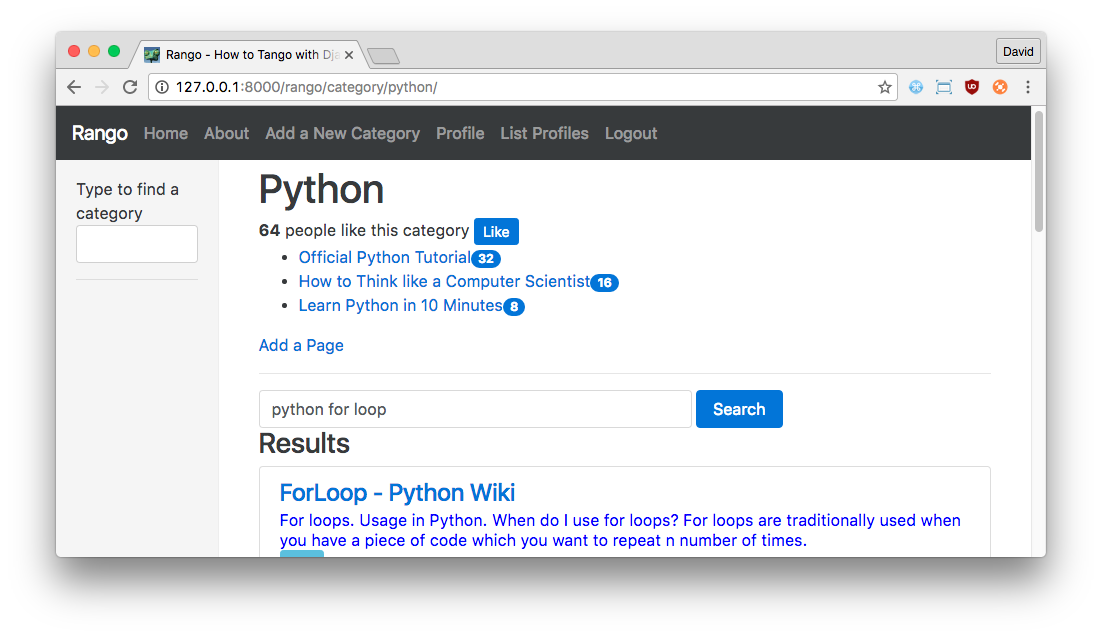
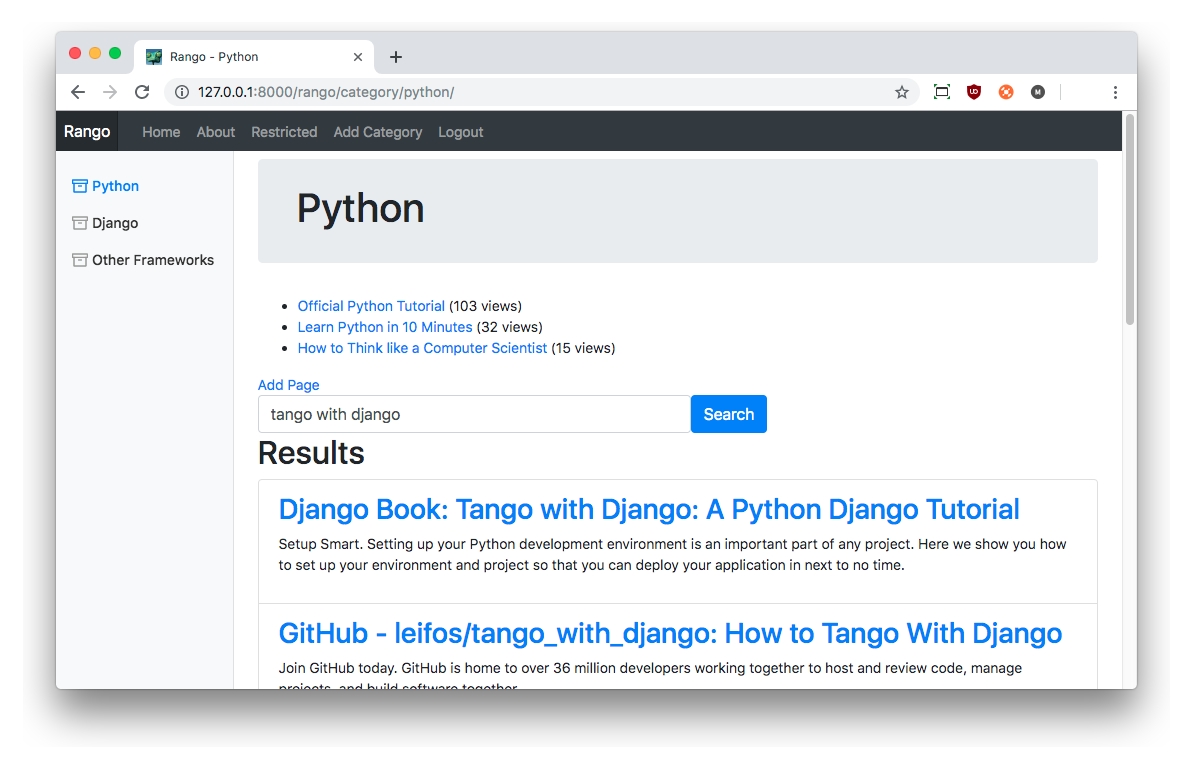
Updating Chapter 16, completed the updating of the search migration guide

Changed region(s): [[0.0309, 0.0298, 0.9564, 0.9246], [0.5554, 0.5071, 0.6479, 0.5667]]

diff --git a/manuscript/chapter16-rango-hints.md b/manuscript/chapter16-rango-hints.md
@@ -72,103 +72,124 @@ This involves the simple addition of chaining on an `order_by()` call to our ORM
 Now that this is all done, confirm it all works by clicking on categories and then pages. Go back to the category and refresh the page to see if the number of clicks has increased. Remember to refresh; the updated count may not show up straight away!
 
 ## Searching Within a Category Page
-Rango aims to provide users with a helpful directory of page links. At the moment, the search functionality is essentially independent of the categories. It would be nicer however to have search integrated into category browsing. Let's assume that a user will first browse their category of interest first. If they can't find the page that they want, they can then search for it. If they find a page that is suitable, then they can add it to the category that they are in. Let's tackle the first part of this description here.
+The main aim of Rango is to provide users of the app with a helpful directory of page links. At the moment, the search functionality is essentially independent of the categories. It would be better to integrate the search functionality within a category page.
 
-We first need to remove the global search functionality and only let users search within a category. This will mean that we essentially decommission the current search page and search view. After this, we'll need to perform the following.
+Let us assume that a user will first navigate to and browse their category of interest first. If they cannot find the page that they want, they will then be able to search for it. Once they examine their search results and find the page they are looking for, they will be able to add the page to the category they are browsing.
+
+We'll tackle the first part of the description here -- adding search functionality to the category page. In order to accomplish this, we first need to remove the [search functionality that we added in a previous chapter](#chapter-bing). This will essentially mean decommissioning the current search page and associated infrastructure (including the view and URL mapping). After this, there are several tasks we will need to undertake. The subsections listed here again correspond to the five main steps we outlined in the [previous chapter](#chapter-ex-searching).
+
+W> ### Don't Delete your Code!
+W> When decommissioning your existing search functionality, don't delete it. Simply comment things out where appropriate (such as in the `urls.py` module). You'll copying some of the code across to a new home later on, anyway.
 
 ### Decommissioning Generic Search
-Remove the generic *Search* link from the menu bar by editing the `base.html` template. You can also remove or comment out the URL mapping in `rango/urls.py`.
+The first step for this exercise is to decommission the existing search functionality that you implemented in a [previous chapter](#chapter-bing).
 
-### Creating a Search Form Template
-Now in `category.html`, after the categories, add in a new `div` at the bottom of the template, and copy in the search form. This is very similar to the template code in the `search.html`, but we have updated the action to point to the `show_category` page. We also pass through a variable called `query`, so that the user can see what query has been issued.
+1. First, open Rango's `base.html` template and find the navigation bar markup (found at the top of the page). Locate the `<li>` element for the `Search` link that you added earlier on and delete it. This needs to be deleted as you'll be commenting out the URL mapping shortly, meaning that a reverse URL lookup for `rango:search` will no longer work. Wrapping this with an HTML comment tag (`<!-- ... -->`) won't work either, as the Django template engine will still process what's inside of it!
+2. Second, open Rango's `urls.py` module and locate the URL mapping for the `/rango/search/` URL. Comment this line out by adding a `#` to the start of the line. This will prevent users from reaching the `search` URL.
+3. Finally, open Rango's `views.py` module and locate the `search()` view you implemented previously. Again, comment out this function by prepending a `#` to the start of each line.
+
+You'll still have the `search.html` template in Rango's templates directory; don't remove this as we will be using the contents of this template as the basis for integrating search functionality within the category template.
+
+### Migrating `search.html` to `category.html`
+As we will be wanting provide search functionality to users who are browsing a category, we need to add in the search presentation functionality (e.g. displaying the search form and results area) to the `category.html` template. This is essentially a simple copy and paste job!
+
+Let's split this into two main steps. First, open your decommissioned `search.html` template and locate the `<div>` element containing the entire search form. This will be the `<div>` whose child is a `<form>` element. Select and copy the `<div>` and its contents, then open Rango's `category.html` file.
+
+We now need to paste the code from `search.html` into `category.html`. As the brief for this problem was to add the search functionality *underneath* the list of pages in the category, find and locate the link inside the `{% block body_block %}` to add a page. Paste the contents from `search.html` underneath that link.
+
+You can then go back to `search.html` and repeat the process, this time selecting the `<div>` for displaying the results list. You can identify this by looking for the `<div>` with Django template code that iterates through the `result_list` list. Copy that and then move back over to `category.html`. Now paste that in underneath the `<div>` containing the form that you previously pasted in.
+
+### Updating the `category.html` Search Form
+Now that the markup required has been added to `category.html`, we need to make one simple change. Instead of submitting the contents of the search form to the `/rango/search/` URL which we decommissioned earlier, we instead will simply direct submitted responses to the Rango `/rango/category/<slug:category_name_slug>` URL instead. This is as simple as finding the `<form>` definition in `category.html` and changing the `action` attribute to Rango's `show_category()` URL mapping.
 
 {lang="html",linenos=off}
-    <form class="form-inline" id="user_form" 
-          method="post" action="{% url 'rango:show_category'  category.slug %}">
-        {% csrf_token %}
-        <div class="form-group">
-            <input class="form-control" type="text" size="40" 
-                   name="query" value="{{ query }}" id="query" />
-        </div>
-        <button class="btn btn-primary" type="submit" name="submit"
-                value="Search">Search</button>
-    </form>
+	<form class="form-inline"
+	      id="user-form"
+	      method="post"
+	      action="{% url 'rango:show_category' category.slug %}">
 
-After the search form, we need to provide a space where the results are rendered. Again, this code is similar to the template code in `search.html`.
+### Updating the `show_category()` View
+You should have identified that since we are now redirecting search requests to the `show_category()` view, we'll need to make some changes within that view so that it can handle the processing of the search request, as well as being able to handle the generation of a list of pages for a given category.
 
-{lang="html",linenos=off}
-    {% if result_list %}
-    <h3>Results</h3>
-    <!-- Display search results in an ordered list -->
-    <div class="list-group">
-    {% for result in result_list %}
-        <div class="list-group-item">
-            <h4 class="list-group-item-heading">
-                <a href="{{ result.link }}">{{ result.title }}</a>
-                </h4>
-                <p class="list-group-item-text">{{ result.summary }}</p>
-        </div>
-    {% endfor %}
-    </div>
-    {% endif %}
-	
+This is again a relatively straightforward process in which we update the view based upon code from our decommissioned `search()` view. We provide the complete listing of our model `show_category()` view below. Notice the comments denoting the start of the code we have taken from our existing `search()` view.
 
-Remember to wrap the search form and search results with `{% if user.is_authenticated %}` and `{% endif %}`, so that only authenticated users can search. You don't want random users to be wasting your monthly search API's quota! And remember to encase the search box and results in a div containter and div row 	`<div class="container p-4"><div class="row">` ... `</div></div>`.
-
-### Updating the Category View
-Update the category view to handle a HTTP `POST` request (i.e. when the user submits a search) and inject the results list into the context. The following code demonstrates this new functionality.
-
-{lang="python",linenos=off}
+{lang="python",linenos=on}
 	def show_category(request, category_name_slug):
-	    # Create a context dictionary that we can pass
-	    # to the template rendering engine.
 	    context_dict = {}
 	    
 	    try:
-	        # Can we find a category name slug with the given name?
-	        # If we can't, the .get() method raises a DoesNotExist exception.
-	        # So the .get() method returns one model instance or raises an exception.
 	        category = Category.objects.get(slug=category_name_slug)
-	        # Retrieve all of the associated pages.
-	        # Note that filter() returns a list of page objects or an empty list
-	        pages = Page.objects.filter(category=category)
-	        # Adds our results list to the template context under name pages.
+	        pages = Page.objects.filter(category=category).order_by('-views')
+	        
 	        context_dict['pages'] = pages
-	        # We also add the category object from
-	        # the database to the context dictionary.
-	        # We'll use this in the template to verify that the category exists.
 	        context_dict['category'] = category
-	        # We get here if we didn't find the specified category.
-	        # Don't do anything -
-	        # the template will display the "no category" message for us.
 	    except Category.DoesNotExist:
 	        context_dict['category'] = None
 	        context_dict['pages'] = None
 	    
-	    # New code added here to handle a POST request
+	    # Start new search functionality code.
+	    if request.method == 'POST':
+	        if request.method == 'POST':
+	            query = request.POST['query'].strip()
+	            
+	            if query:
+	                context_dict['result_list'] = run_query(query)
+	    # End new search functionality code.
 	    
-	    # create a default query based on the category name
-	    # to be shown in the search box
-	    context_dict['query'] = category.name
-	    
-	    result_list = []
+	    return render(request, 'rango/category.html', context_dict)
+
+We keep the `show_category()` view the same at the top, and add in an additional block of code towards the end to handle the processing of a search request. If a `POST` request is made, we then attempt to take the `query` from the request and issue the query to the `run_query()` function we defined in the [Bing Search chapter](#sec-bing-pyfunc). This then returns a list of results which we put into the `context_dict` with a key of `result_list` -- exactly the variable name that is expected in the updated `category.html` template.
+
+Search functionality should then all work as expected. Try it out! Navigate to a category page, and you should see a search box. Enter a search query, submit it, and see what happens.
+
+### Restricting Access to Search Functionality
+Our final requirement was to restrict the migrated search functionality only to those who are logged into Rango. This step is straightforward -- one can simply wrap the search-handling template code added to `category.html` with a conditional template check to determine if the user is authenticated.
+
+{lang="python",linenos=off}
+	{% if user.is_authenticated %}
+	<div>
+	    ....
+	</div>
+	{% endif %}
+
+Too easy! You could also go further and add conditional checks within the `show_category()` view to ensure the search functionality part is not executed when the current use is not logged in. Be wary, though -- don't be inclined to add the `login_required()` decorator to the view. Doing so will restrict all category-viewing functionality to logged in users only -- you only want to restrict the *search* functionality!
+
+### Query Box Exercise
+At the end of the Bing Search API chapter, we set an exercise. We noted that in its current state, users would issue a query and then be presented with the results. However, the query box would then be blanked again -- thus making *query reformulation* more taxing.
+
+In our code examples above, we've deliberately kept our model solution to this particular exercise out. How could you allow the results page to *'remember'* the query that was entered, and place it back in the search box?
+
+The solution to this problem is to simply place the `query` variable into the `context_dict` of `show_category()`, and then make use of the variable within the `category.html` template by specifying its value as the `value` attribute for the search box `<input>` element.
+
+In Rango's `show_category()` view, locate the coe block that deals with the search functionality, and add the `query` to the `context_dict`, like so.
+
+{lang="python",linenos=off}
+	# Start new search functionality code.
+	if request.method == 'POST':
 	    if request.method == 'POST':
 	        query = request.POST['query'].strip()
 	        
 	        if query:
-	            # Run our search API function to get the results list!
-	            result_list = run_query(query)
-	            context_dict['query'] = query
-	            context_dict['result_list'] = result_list
-	    
-	    
-	    # Go render the response and return it to the client.
-	    return render(request, 'rango/category.html', context_dict)
+	            context_dict['result_list'] = run_query(query)
+	            context_dict['query] = query
+	# End new search functionality code.
 
-Notice that the `context_dict` now includes the `result_list` and `query`. If there is no query, we provide a default query, i.e. the category name. The query box then displays this value.
+Once this has been completed, open Rango's `category.html` template and modify the `query` `<input>` field like so.
+
+{lang="html",linenos=off}
+	<input class="form-control"
+	       type="text"
+	       size="50"
+	       name="query"
+	       value="{{ query }}"
+	       id="query" />
+
+Template variable `{{ query }}` will be replaced with the user's query, thus setting it to be the default value for the `<input>` field when the page loads.
+
+Once everything has been completed, you should have a category page that looks similar to the example below. Well done!
 
 {id="fig-exercises-categories"}
-![Rango's updated category view, complete with search API search functionality.](images/exercises-categories.png)
+![Rango's updated category view, complete with Bing Search API search functionality. Note also the inclusion of the search terms in the query box -- they are still retained!](images/exercises-categories.png)
 
 ## Creating a `UserProfile` Instance {#section-hints-profiles}
 This section provides a solution for creating Rango `UserProfile` accounts. Recall that the standard Django `auth` `User` object contains a variety of standard information regarding an individual user, such as a username and password. We however chose to implement an additional `UserProfile` model to store additional information such as a user's Website and a profile picture. Here, we'll go through how you can implement this, using the following steps.

diff --git a/manuscript/chapter15-rango-exercises.md b/manuscript/chapter15-rango-exercises.md
@@ -62,14 +62,14 @@ I> Always check the request method is of type `GET` first. Once you have done th
 I>
 I> You could also do this without using a *querystring*, but through the URL instead. This would mean that instead of having a URL that looks like `/rango/goto/?page_id=x`, you could create a URL pattern that matches to `/rango/goto/<int:page_id>/`. Either solution would work, but if you do this, you would obtain `page_id` in `goto_url()` from a parameter to the function call, rather than from the `request.GET` dictionary.
 
-## Searching Within a Category Page
+## Searching Within a Category Page  {#chapter-ex-searching}
 Rango aims to provide users with a helpful dictionary of useful web pages. At the moment, the search page functionality is essentially independent of the categories. It would be nicer to have search integrated within the categories.
 
 In order to implement this functionality, we will assume that a user will first browse through the category of interest. If they can't find a relevant page, they can then search. If they find a page that is relevant, then they can add it to the category.
 
 For this section, let us focus on the first problem that entails putting search on the category page. To do this, perform the following steps.
 
-1. Remove the generic *Search* link from the navigation bar. This implies that we are decommissioning the global search functionality that we implemented earlier. You can also comment out the URL mapping and view for search if you like, too. Don't delete the view however, as you'll be using it in a few steps!
+1. Remove the generic *Search* link from the navigation bar. This implies that we are decommissioning the global search functionality that we implemented earlier. You can also comment out the URL mapping and view for search if you like, too. **Comment out, don't delete** -- you'll be using the code to form the basis of your updated search functionality in subsequent steps!
 2. Take the search form and results template markup from `search.html`, and place it into `category.html` *underneath* the list of pages. You'll only want to show the search functionality if the category exists in the database.
 3. Update the search form such that the action refers back to the category URL, rather than the search URL.
 
@@ -86,6 +86,11 @@ For this section, let us focus on the first problem that entails putting search 
 	{% if user.is_authenticated %} 
 	    <!-- Your search code goes here -->
 	{% endif %}
+
+T> ### Commenting out Code
+T> Commenting out code stops the interpreter or compiler from using the selected code. Although it cannot see it and execute it, you can still read it and use it. In Python, the simplest way to comment out a line of code is to prepend a `#` to the line -- put it before any text.
+T>
+T> Other languages will have different commenting syntax. HTML for example uses `<!--` to denote the start of a commented-out block of markup, and `-->` to denote the end.
 
 ## Create and View Profiles
 If you have swapped over to the `django-registration-redux` package [as we worked on in an earlier chapter](#chapter-redux), then users who are registering won't be asked for a website or profile image. Essentially, the `UserProfile` information is not being collected. In order to fix this issue, we'll need to change the steps that users go through when registering. Instead of simply redirecting users to the index page once they have successfully filled out the initial registration form, we'll redirect them to a new form to collect the additional `UserProfile` information.

diff --git a/manuscript/chapter14-bing.md b/manuscript/chapter14-bing.md
@@ -37,7 +37,7 @@ A new page will then load. Here, you should look for the `Keys` option under the
 {id="fig-azure-keys"}
 ![The keys screen for the Bing Search API resource. Make sure you take a note of the `key 1` value! You will need them later on.](images/ch14-azure-keys.png)
 
-## Adding Search Functionality
+## Adding Search Functionality {#sec-bing-pyfunc}
 With your keys in hand, it's now time to get coding. Below, we have provided the necessary code so that we can programmatically issue search queries to the Bing Search API. Create a file called `bing_search.py` inside your `rango` app directory -- the same directory with modules like `views.py` and `models.py`. Add the code shown below.
 
 I> ### The `requests` Package
